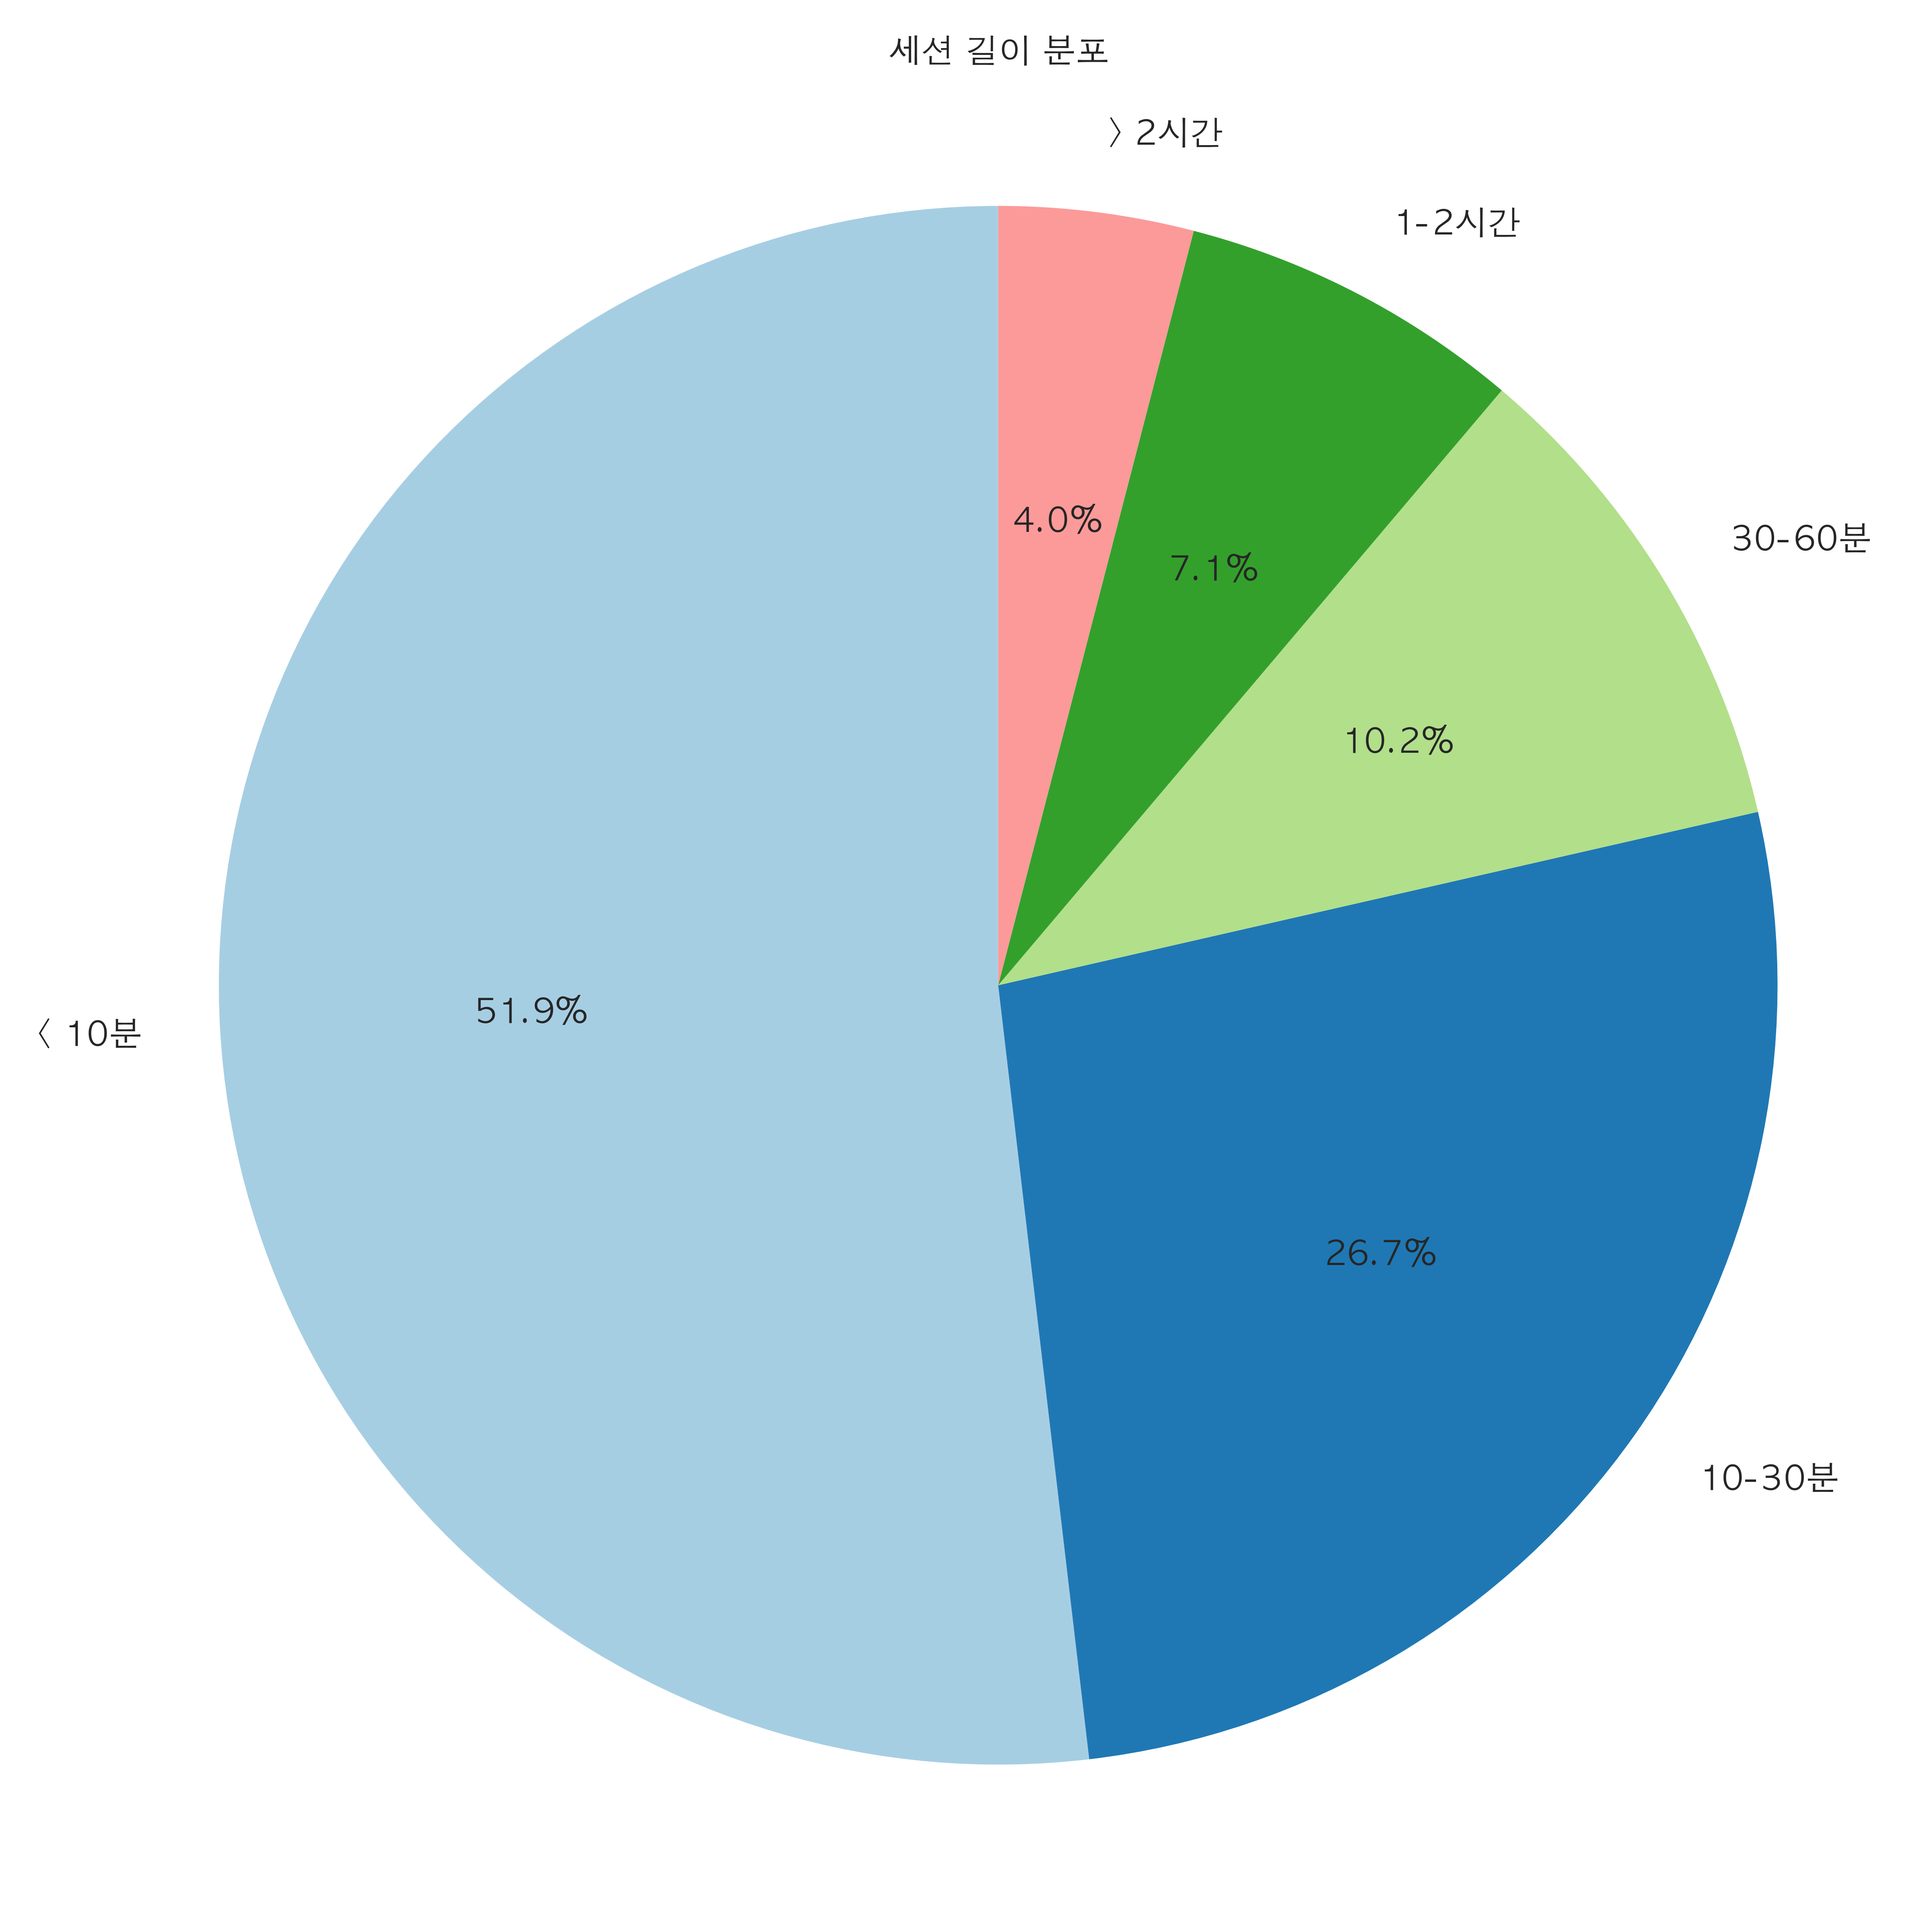
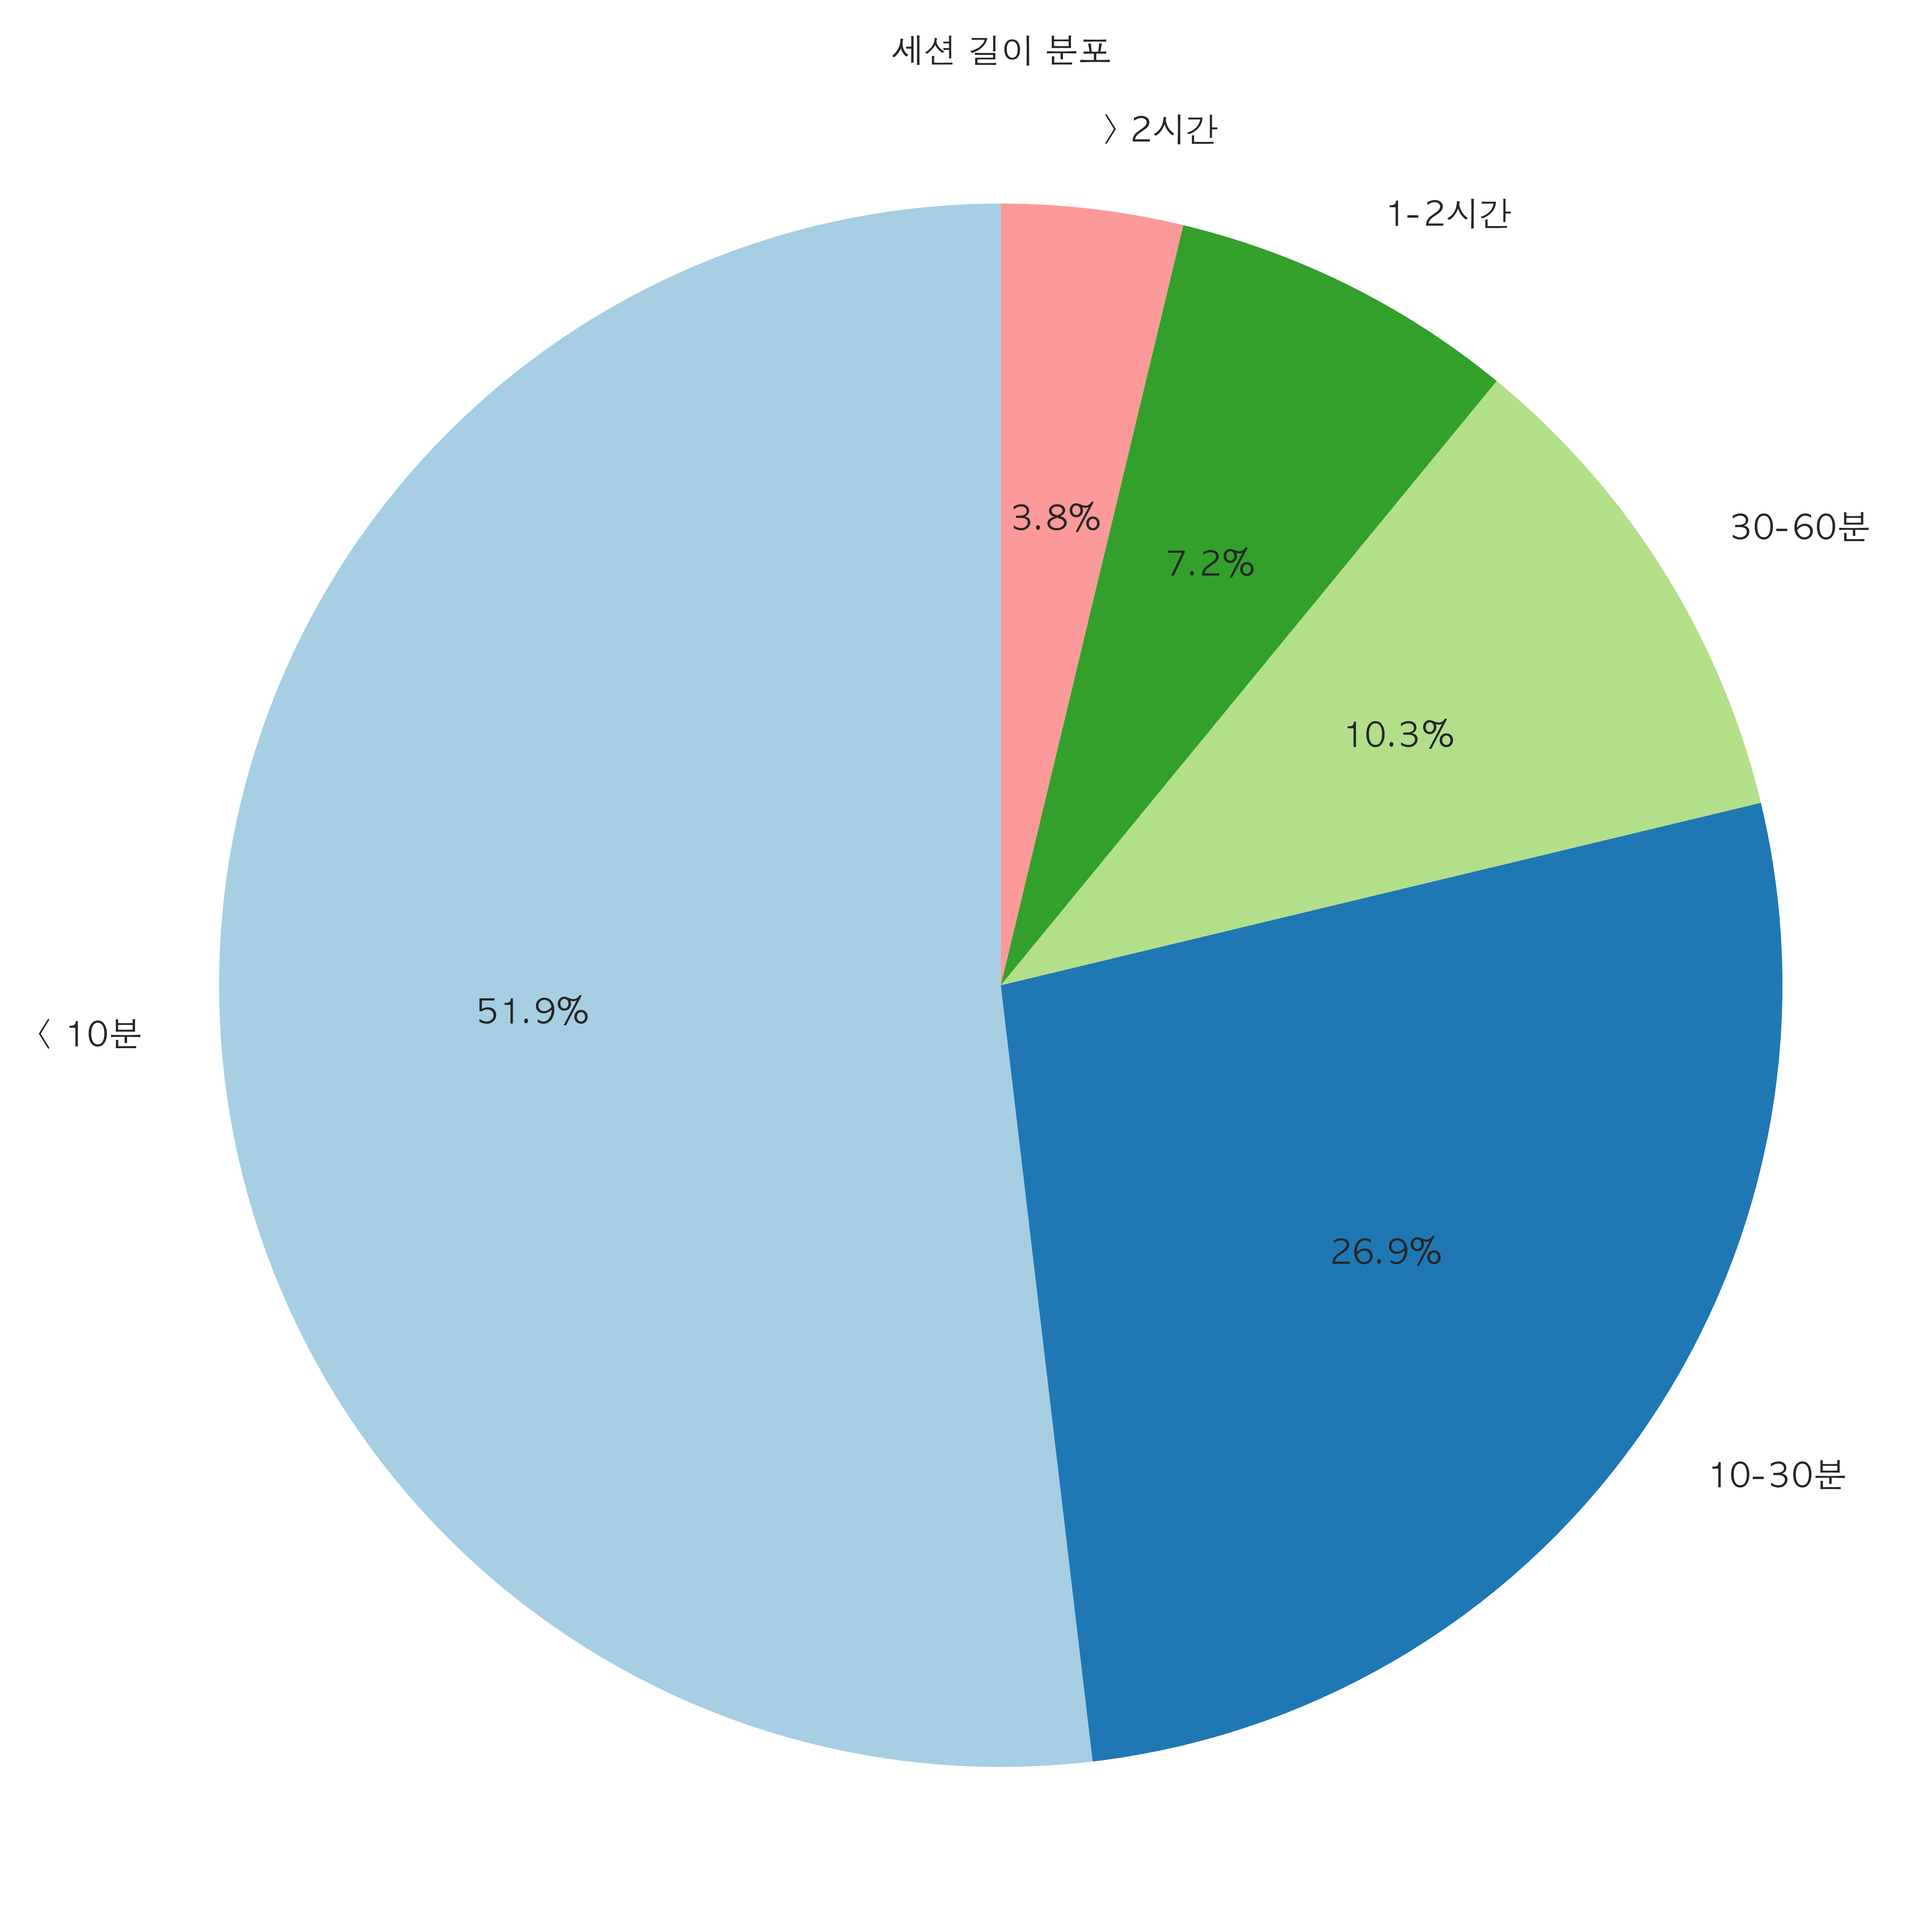
Update report data

diff --git a/index.html b/index.html
@@ -33,7 +33,7 @@
     <div class="container">
         <div class="header">
             <h1>마인크래프트 서버 통계 보고서</h1>
-            <p>보고서 생성일: 2025-09-27 12:30:29</p>
+            <p>보고서 생성일: 2025-09-27 12:44:08</p>
         </div>
 
         <h2>플레이어 통계</h2>
@@ -50,20 +50,10 @@
             </div>
         
             <div class="player-card">
-                <h4>Ulyeon0725</h4>
-                <p><span class="stat-label">총 접속 시간:</span> 19:20:26</p>
-                <p><span class="stat-label">접속 횟수:</span> 27</p>
-                <p><span class="stat-label">평균 세션:</span> 00:44:37</p>
-                <p><span class="stat-label">최초 접속:</span> 2025-09-23 18:23:55</p>
-                <p><span class="stat-label">최종 접속:</span> 2025-09-27 01:50:21</p>
-                <p><span class="stat-label">함께한 유저:</span> BBOGLEI, DDaKo6632, HWai9379, JK87059, PumpkinBreak241, jyehihello, kim0040, kuku7787, min6967, seoyeon9399, sunthe123</p>
-            </div>
-        
-            <div class="player-card">
                 <h4>seoyeon9399</h4>
                 <p><span class="stat-label">총 접속 시간:</span> 17:02:34</p>
                 <p><span class="stat-label">접속 횟수:</span> 35</p>
-                <p><span class="stat-label">평균 세션:</span> 00:29:12</p>
+                <p><span class="stat-label">평균 세션:</span> 00:30:04</p>
                 <p><span class="stat-label">최초 접속:</span> 2025-09-16 19:49:42</p>
                 <p><span class="stat-label">최종 접속:</span> 2025-09-27 12:19:04</p>
                 <p><span class="stat-label">함께한 유저:</span> BBOGLEI, DDaKo6632, HWai9379, JK87059, PumpkinBreak241, Ulyeon0725, hhj0913, jyehihello, kim0040, kuku7787, min6967, sunthe123</p>
@@ -97,6 +87,16 @@
                 <p><span class="stat-label">최초 접속:</span> 2025-09-17 21:06:44</p>
                 <p><span class="stat-label">최종 접속:</span> 2025-09-26 17:00:51</p>
                 <p><span class="stat-label">함께한 유저:</span> BBOGLEI, DDaKo6632, HWai9379, JK87059, PumpkinBreak241, Ulyeon0725, jyehihello, kim0040, kuku7787, seoyeon9399, sunthe123</p>
+            </div>
+        
+            <div class="player-card">
+                <h4>Ulyeon0725</h4>
+                <p><span class="stat-label">총 접속 시간:</span> 08:51:42</p>
+                <p><span class="stat-label">접속 횟수:</span> 27</p>
+                <p><span class="stat-label">평균 세션:</span> 00:21:16</p>
+                <p><span class="stat-label">최초 접속:</span> 2025-09-23 18:23:55</p>
+                <p><span class="stat-label">최종 접속:</span> 2025-09-27 01:50:21</p>
+                <p><span class="stat-label">함께한 유저:</span> BBOGLEI, DDaKo6632, HWai9379, JK87059, PumpkinBreak241, jyehihello, kim0040, kuku7787, min6967, seoyeon9399, sunthe123</p>
             </div>
         
             <div class="player-card">
